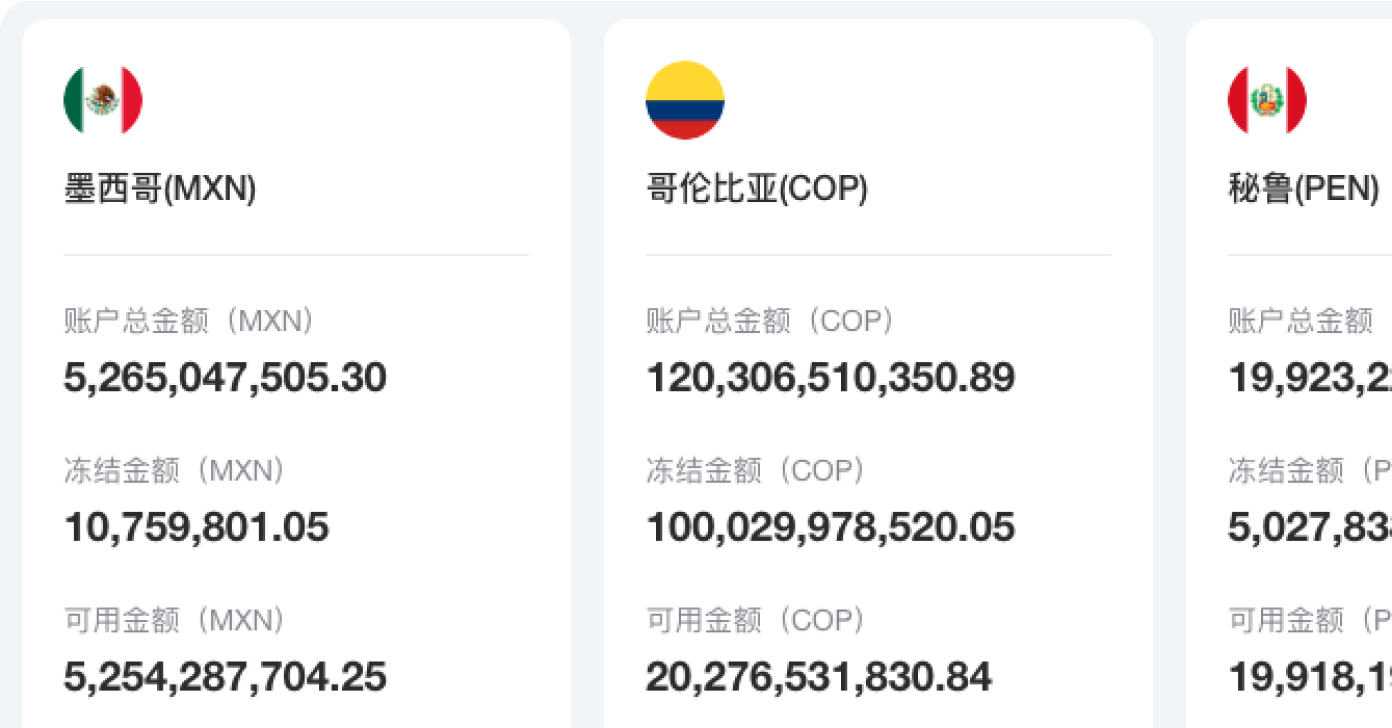
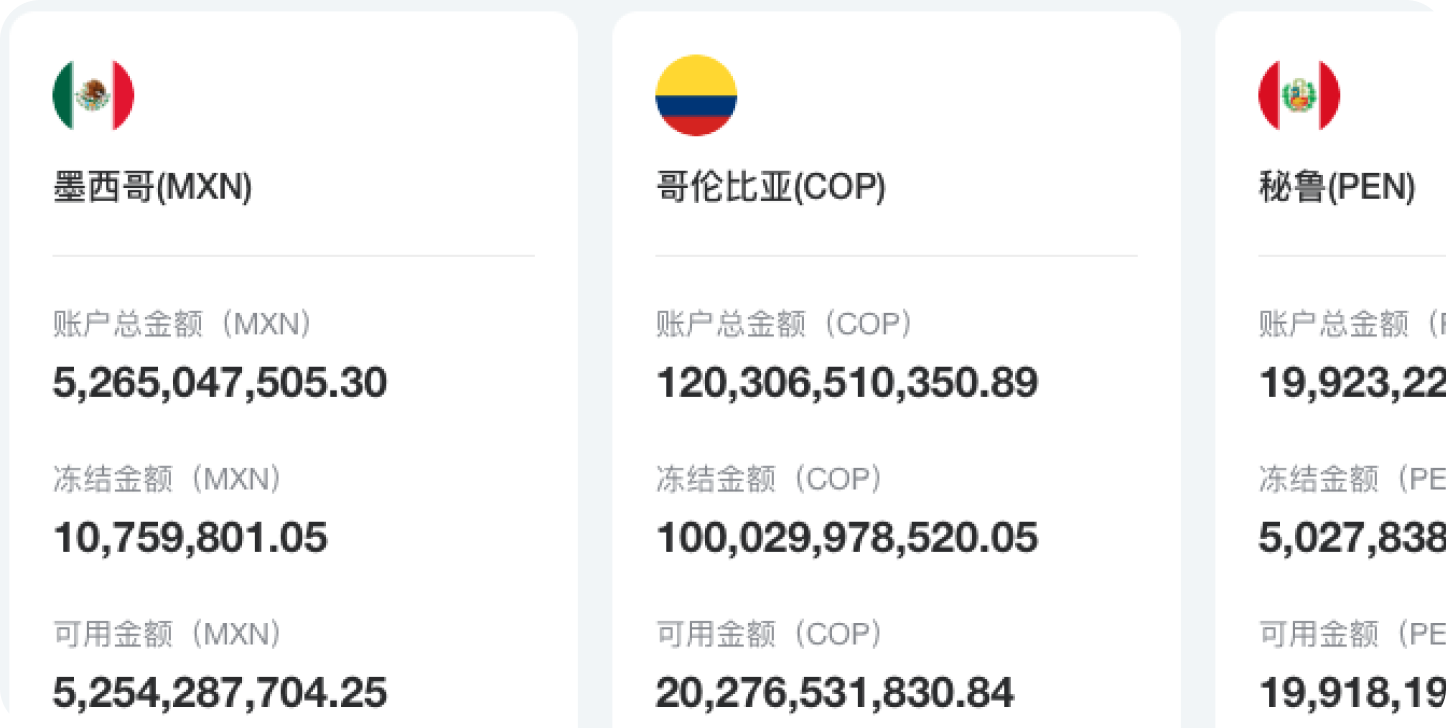
feat:1152

diff --git a/app/Payouts/page.tsx b/app/Payouts/page.tsx
@@ -18,7 +18,7 @@ import { FadeIn, FadeText } from "@/components/Animateitem";
 export default function PayputsPage() {
   return (
     <div className="w-full">
-      <div className="payins-page bg-center  min-h-[546px] md:min-h-[824px]  rounded-none pt-[30px]  md:pt-[135px] md:pb-[31px] bg-[url('/images/payout/bg-1.png')] md:bg-[url('/images/payout/bg.png')]">
+      <div className="payins-page bg-center md:bg-left  lg:bg-center  min-h-[546px] md:min-h-[824px]  rounded-none pt-[30px]  md:pt-[135px] md:pb-[31px] bg-[url('/images/payout/bg-1.png')] md:bg-[url('/images/payout/bg.png')]">
         <PageWrap>
           <NextLink
             className="block"
@@ -31,7 +31,7 @@ export default function PayputsPage() {
             <FadeText>
               <PrimaryTitle
                 align="text-left"
-                className="md:max-w-[500px] mb-[20px] md:mb-[46px] break-keep"
+                className="md:max-w-[500px] mb-[20px] md:mb-[46px] break-keep "
                 title="Speedy and cost-effective global payouts"
               ></PrimaryTitle>
             </FadeText>
@@ -100,21 +100,21 @@ export default function PayputsPage() {
           >
             <section className="mb-[105px] md:mb-[207px]">
               <FadeIn>
-                <div className="flex-1 md:flex mb-[30px] md:mb-[100px]">
+                <div className="flex-1 md:flex md:items-center xl:items-start mb-[30px] md:mb-[100px]">
                   <Image
                     className="mb-[30px] md:mb-0 "
                     classNames={{
-                      wrapper: "md:mr-[46px] mr-0",
-                      img: "w-full md:min-w-[335px] md:max-w-[712px] md:max-h-[380px]  rounded-none",
+                      wrapper: "md:mr-[40px] lg:mr-[46px] mr-0",
+                      img: "w-full min-w-[335px] md:max-w-[335px] md:max-h-[179px]   lg:max-w-[712px] lg:max-h-[380px]  rounded-none",
                     }}
                     alt="picture"
                     src="/images/payout/1.png"
                     width="100%"
                     height="100%"
                   />
-                  <div className="flex flex-col justify-center md:max-w-[743px]">
+                  <div className="flex flex-col justify-center lg:max-w-[743px] xl:pt-[28px]">
                     <LarageTitle
-                      className="text-center md:text-left mb-[20px]"
+                      className="text-center md:text-left mb-[20px] md:text-[20px] leading-[22px]"
                       title={
                         <>
                           A truly global network for{" "}
@@ -127,14 +127,14 @@ export default function PayputsPage() {
                       }
                     />
                     <MediumTitle
-                      className="text-center md:text-left "
+                      className="text-center md:text-left md:text-[16px] "
                       title="By supporting 130+ currencies, 180+ countries and regions, both SWIFT and multiple local clearing networks, our payout services facilitate the rapid global distribution of your funds, including to China."
                     />
                   </div>
                 </div>
               </FadeIn>
               <FadeIn>
-                <div className="md:flex mb-[30px] md:mb-[100px] flex-row-reverse">
+                <div className="md:flex md:items-center  mb-[30px] md:mb-[100px] flex-row-reverse">
                   <Image
                     className="mb-[30px] md:mb-0 md:ml-[46px] ml-0"
                     classNames={{
@@ -158,19 +158,19 @@ export default function PayputsPage() {
                 </div>
               </FadeIn>
               <FadeIn>
-                <div className="md:flex mb-[30px] md:mb-[140px]">
+                <div className="md:flex md:items-center xl:items-start mb-[30px] md:mb-[140px]">
                   <Image
                     className="mb-[30px] md:mb-0 "
                     classNames={{
                       wrapper: "md:mr-[46px] mr-0 flex-1",
-                      img: "md:min-w-[335px] md:min-h-[175px]  md:max-w-[687px] md:max-h-[360px]  rounded-none",
+                      img: "min-w-[335px] min-h-[175px] md:max-w-[335px] md:max-h-[175px] lg:max-w-[687px] lg:max-h-[360px]  rounded-none",
                     }}
                     alt="picture"
                     src="/images/payout/3.png"
                     width="100%"
                     height="100%"
                   />
-                  <div className="flex flex-col justify-center md:max-w-[743px]">
+                  <div className="flex flex-col justify-center md:max-w-[743px] xl:pt-[20px]">
                     <LarageTitle
                       className="text-center md:text-left mb-[20px]"
                       title="Transparent and competitive fees"
@@ -183,19 +183,19 @@ export default function PayputsPage() {
                 </div>
               </FadeIn>
               <FadeIn>
-                <div className="md:flex mb-[30px] md:mb-[34px] flex-row-reverse">
+                <div className="md:flex md:items-center  xl:items-start  mb-[30px] md:mb-[34px] flex-row-reverse">
                   <Image
                     className="mb-[30px] md:mb-0 "
                     classNames={{
                       wrapper: "md:ml-[46px] mr-0 flex-1",
-                      img: "md:min-w-[335px] md:min-h-[176px]  md:max-w-[698px] md:max-h-[368px]  rounded-none",
+                      img: "min-w-[335px] md:max-w-[335px] md:max-h-[176px]  lg:max-w-[698px] lg:max-h-[368px]  rounded-none",
                     }}
                     alt="picture"
                     src="/images/payout/4.png"
                     width="100%"
                     height="100%"
                   />
-                  <div className="flex flex-col justify-center md:max-w-[759px]">
+                  <div className="flex flex-col justify-center md:max-w-[759px] xl:pt-[20px]">
                     <LarageTitle
                       className="text-center md:text-left mb-[20px]"
                       title="Efficient Payout Automation"
@@ -339,22 +339,25 @@ export default function PayputsPage() {
                       height="100%"
                       src="/images/payout/5.png"
                       width="100%"
+                      isZoomed
                     />
                   </div>
-                  <div className="max-w-[837px] pt-[26px] lg:pt-[61px]  px-[12px] lg:px-[60px] pb-[16px] lg:pb-[49px] bg-[#1C2025] rounded-2xl md:max-h-[761px] mt-[20px] md:mt-0">
-                    <LarageTitle
-                      title="Transparent and competitive fees"
-                      align="text-left"
-                      className="mb-[10px] md:mb-[20px]"
-                    />
-                    <MediumTitle
-                      align="text-left"
-                      title="We offer low fees and transparent exchange rates to reduce your overall payment costs."
-                      className="mb-[34px] md:mb-[60px]"
-                    />
+                  <div className="flex flex-col justify-between max-w-[837px] pt-[26px] lg:pt-[61px]  px-[12px] lg:px-[60px] pb-[16px] lg:pb-[49px] bg-[#1C2025] rounded-2xl md:max-h-[761px] mt-[20px] md:mt-0">
+                    <div>
+                      <LarageTitle
+                        title="Transparent and competitive fees"
+                        align="text-left"
+                        className="mb-[10px] md:mb-[20px]"
+                      />
+                      <MediumTitle
+                        align="text-left"
+                        title="We offer low fees and transparent exchange rates to reduce your overall payment costs."
+                        className="mb-[34px] md:mb-[60px]"
+                      />
+                    </div>
                     <Image
                       classNames={{
-                        img: "w-fullmd:min-w-[305px] md:min-h-[164px]  md:max-w-[696px] md:max-h-[364px]  rounded-none",
+                        img: "w-full min-w-[305px] md:min-w-[305px] md:min-h-[164px]  lg:max-w-[696px] lg:max-h-[364px]  rounded-none",
                       }}
                       alt="country"
                       height="100%"

diff --git a/app/In/page.tsx b/app/In/page.tsx
@@ -27,15 +27,16 @@ export default function InPage() {
       <PageWrap>
         <FadeIn>
           <div className="md:flex items-center justify-between mb-[78px] md:mb-[168px]">
-            <div className="flex-1 md:min-w-[500px]">
-              <div className="md:max-w-[714px] mb-[15px] md:mb-[40px]">
+            <div className="flex-1 md:min-w-[340px] lg:min-w-[500px] md:pr-[20px]">
+              <div className="md:max-w-[714px] mb-[15px] md:mb-[40px] ">
                 <PrimaryTitle
                   align="text-left"
                   title="Shape the future of commerce with Teemopay."
+                  className="md:text-[22px] md:leading-[30px]  lg:text-6xl lg:leading-[4.25rem] "
                 />
               </div>
               <MediumTitle
-                className="max-w-[671px] mb-[38px] md:mb-0"
+                className="max-w-[671px] mb-[38px] md:mb-0 md:text-[18px] lg:text-xl "
                 align="text-left"
                 title="We believe groundbreaking innovation starts with exceptional people. That’s why we provide personalized benefits supporting every life stage, empowering you to thrive at work and beyond. Ready to leave your mark? Join us in redefining what’s possible."
               />
@@ -54,15 +55,16 @@ export default function InPage() {
         </FadeIn>
         <FadeIn>
           <div className="md:flex items-center justify-between mb-[78px] md:mb-[168px] flex-row-reverse">
-            <div className="flex-1 md:min-w-[500px] md:max-w-[600px] md:pl-[48px]">
+            <div className="flex-1 md:min-w-[340px] lg:min-w-[500px]   md:pl-[48px]">
               <div className="md:max-w-[711px] mb-[15px] md:mb-[40px]">
                 <PrimaryTitle
+                  className="md:text-[22px] md:leading-[30px]  lg:text-6xl lg:leading-[4.25rem] "
                   align="text-left"
                   title="Employee wellness drives everything we do."
                 />
               </div>
               <MediumTitle
-                className="max-w-[668px] mb-[38px] md:mb-0"
+                className="max-w-[668px] mb-[38px] md:mb-0 md:text-[18px] lg:text-xl "
                 align="text-left"
                 title="We invest in your holistic well-being with benefits and resources designed to help you thrive."
               />

diff --git a/app/MX/page.tsx b/app/MX/page.tsx
@@ -159,7 +159,7 @@ export default function MXPage() {
         <FadeIn>
           <section id="pay-way" className=" mb-[107px] md:mb-[77px]">
             <div className="lg:flex items-center justify-between  rounded-3xl  bg-[#1C2025] p-[20px] md:pl-[37px] md:pr-[37px] md:py-[57]">
-              <div className="lg:max-w-[597px] lg:min-w-[597px] md:mr-[40px]">
+              <div className="md:max-w-[480px] xl:max-w-[597px]  md:mr-[40px]">
                 <MediumXlTitle
                   className="mb-[10px] md:mb-[78px]"
                   title="Method of payment"
@@ -168,25 +168,14 @@ export default function MXPage() {
                   <CountrySub key={i.id} title={i.title} sub={i.sub} />
                 ))}
               </div>
-              <div className="hidden md:flex flex-1  items-center justify-center  mb-[22px] lg:mb-0  mt-[30px] lg:mt-0 md:pt-[28px] md:pl-[37px]">
+              <div className="flex flex-1  items-center justify-center  mb-[22px] lg:mb-0  mt-[30px] lg:mt-0 md:pt-[28px] lg:pl-[37px] ">
                 <Image
                   classNames={{
-                    img: "min-h-[139px] md:max-w-[254px]  md:max-h-[425px]",
+                    img: "min-h-[28px] min-w-[219px   md:max-w-[545px] md:max-h-[69px]",
                   }}
                   alt="country"
                   height="100%"
                   src="/images/country/mx-way.png"
-                  width="100%"
-                />
-              </div>
-              <div className="md:hidden flex-1  items-center justify-center  mb-[22px] lg:mb-0  mt-[30px] lg:mt-0 md:pt-[28px] md:pl-[37px]">
-                <Image
-                  classNames={{
-                    img: "min-h-[28px] min-w-[219px]",
-                  }}
-                  alt="country"
-                  height="100%"
-                  src="/images/country/mx-way-m.png"
                   width="100%"
                 />
               </div>

diff --git a/app/PE/page.tsx b/app/PE/page.tsx
@@ -112,7 +112,7 @@ export default function PEPage() {
         </FadeIn>
         <FadeIn>
           <section id="progress" className="mb-[10px] md:mb-[148px] ">
-            <div className="grid grid-cols-1 md:grid-cols-2 lg:grid-cols-3 gap-x-[80px] gap-y-[10px] rounded-2xl  md:rounded-3xl">
+            <div className="grid grid-cols-1 md:grid-cols-2 lg:grid-cols-3 gap-x-[40px] lg:gap-x-[20px]  xl:gap-x-[80px] gap-y-[10px] rounded-2xl  md:rounded-3xl">
               {currentObj.second.list.map((i) => (
                 <FadeIn key={i.id}>
                   <CardWrap key={i.id}>
@@ -147,7 +147,7 @@ export default function PEPage() {
         <FadeIn>
           <section id="pay-way" className=" mb-[107px] md:mb-[77px]">
             <div className="lg:flex items-center justify-between  rounded-3xl  bg-[#1C2025] p-[20px] md:pl-[37px] md:pr-[37px] md:py-[57]">
-              <div className="lg:max-w-[597px] lg:min-w-[597px] md:mr-[40px]">
+              <div className="md:max-w-[480px] xl:max-w-[597px] md:mr-[40px]">
                 <MediumXlTitle
                   className="mb-[20px] md:mb-[18px]"
                   title="Method of payment"
@@ -156,7 +156,7 @@ export default function PEPage() {
                   <CountrySub key={i.id} title={i.title} sub={i.sub} />
                 ))}
               </div>
-              <div className="mb-[22px] lg:mb-0  mt-[30px] lg:mt-0 lg:pr-[37px]">
+              <div className="flex flex-1  items-center justify-center  mb-[22px] lg:mb-0  mt-[30px] lg:mt-0">
                 <Image
                   classNames={{
                     img: "min-h-[65px] min-w-[218px]  md:max-h-[170px] md:max-w-[551px]",

diff --git a/app/PK/page.tsx b/app/PK/page.tsx
@@ -123,7 +123,7 @@ export default function PkPage() {
         </FadeIn>
         <FadeIn>
           <section id="progress" className="mb-[10px] md:mb-[148px] ">
-            <div className="grid grid-cols-1 md:grid-cols-2 lg:grid-cols-3 gap-x-[80px] gap-y-[10px] rounded-2xl  md:rounded-3xl">
+            <div className="grid grid-cols-1 md:grid-cols-2 lg:grid-cols-3 gap-x-[40px] lg:gap-x-[20px]  xl:gap-x-[80px] gap-y-[10px] rounded-2xl  md:rounded-3xl">
               {currentObj.second.list.map((i) => (
                 <CardWrap key={i.id}>
                   <div
@@ -170,10 +170,10 @@ export default function PkPage() {
                   <CountrySub key={i.id} title={i.title} sub={i.sub} />
                 ))}
               </div>
-              <div className="lg:max-w-[520px]  mb-[22px] lg:mb-0 xl:pr-[127px] mt-[30px] lg:mt-0">
+              <div className="flex flex-1  items-center justify-center   mb-[22px] lg:mb-0  mt-[30px] lg:mt-0 lg:pl-[37px]">
                 <Image
                   classNames={{
-                    img: " lg:max-w-[393px]",
+                    img: "min-w-[144px] min-h-[28px]  md:max-w-[416px] md:max-h-[87px]",
                   }}
                   alt="country"
                   height="100%"

diff --git a/app/CO/page.tsx b/app/CO/page.tsx
@@ -114,7 +114,7 @@ export default function COPage() {
         </FadeIn>
         <FadeIn>
           <section id="progress" className="mb-[10px] md:mb-[148px] ">
-            <div className="grid grid-cols-1 md:grid-cols-2 lg:grid-cols-3 gap-x-[80px] gap-y-[10px] rounded-2xl  md:rounded-3xl">
+            <div className="grid grid-cols-1 md:grid-cols-2 lg:grid-cols-3 gap-x-[40px] lg:gap-x-[20px]  xl:gap-x-[80px] gap-y-[10px] rounded-2xl  md:rounded-3xl">
               {currentObj.second.list.map((i) => (
                 <CardWrap key={i.id}>
                   <div
@@ -161,7 +161,7 @@ export default function COPage() {
                   <CountrySub key={i.id} title={i.title} sub={i.sub} />
                 ))}
               </div>
-              <div className="lg:max-w-[730px]  mb-[22px] lg:mb-0  mt-[30px] lg:mt-0 lg:pr-[37px]">
+              <div className="flex flex-1  items-center justify-center lg:max-w-[730px]  mb-[22px] lg:mb-0  mt-[30px] lg:mt-0 ">
                 <Image
                   classNames={{
                     img: "min-h-[63px] min-w-[143px]   md:max-h-[202px] md:max-w-[449px]",

diff --git a/components/navbar.tsx b/components/navbar.tsx
@@ -45,7 +45,7 @@ export const Navbar = () => {
     <div className="w-full fixed navbar top-0 left-0  h-[68px] md:h-[88px] bg-[#000] z-[9999]">
       {/* web端 */}
       <div
-        className="relative hidden md:block  w-full   h-[88px] "
+        className="hidden lg:block relative   w-full   h-[88px] "
         ref={wrapperRef}
       >
         <div className="w-full relative h-[88px] flex justify-center">
@@ -150,7 +150,7 @@ export const Navbar = () => {
         </div>
       </div>
       {/* 移动端 */}
-      <div className="block md:hidden h-full bg-[#000] flex items-center justify-between px-[20px] cursor-pointer">
+      <div className="block lg:hidden h-full bg-[#000] flex items-center justify-between px-[20px] cursor-pointer">
         <NextLink className="block max-w-[152px] cursor-pointer" href="/">
           <Image
             alt="HeroUI hero Image with delay"

diff --git a/components/Text.tsx b/components/Text.tsx
@@ -96,7 +96,7 @@ export const LarageTitle = ({
 }: Props) => {
   return (
     <div
-      className={`w-full text-[20px] leading-[24px]  md:text-5xl font-medium  md:leading-[3.625rem] text-white ${align}  cursor-pointer ${className}`}
+      className={`w-full text-[20px] leading-[24px]  lg:text-5xl font-medium  lg:leading-[3.625rem] text-white ${align}  cursor-pointer ${className}`}
     >
       {title}
     </div>
@@ -117,7 +117,7 @@ export const MediumTitle = ({
 }: Props) => {
   return (
     <div
-      className={`text-[14px] md:text-xl  leading-[1.4375rem] ${textColor} ${align} cursor-pointer ${className}`}
+      className={`text-[14px] md:text-[20px]  leading-[23px] ${textColor} ${align} cursor-pointer ${className}`}
     >
       {title}
     </div>
